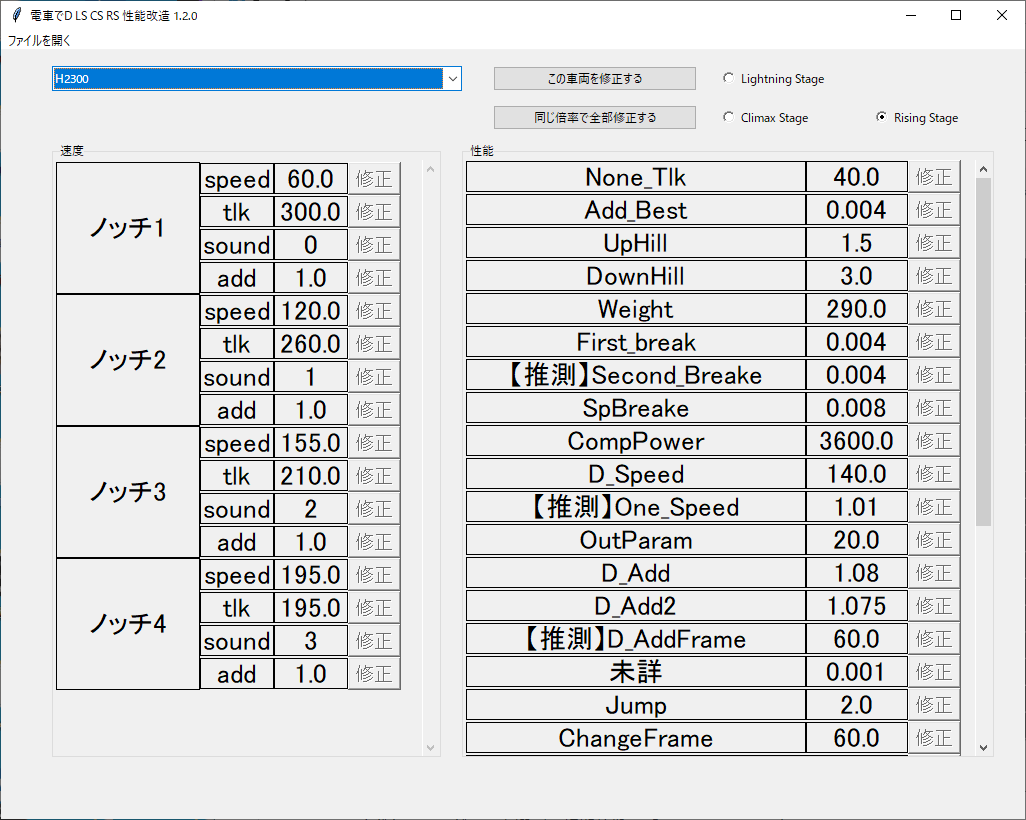
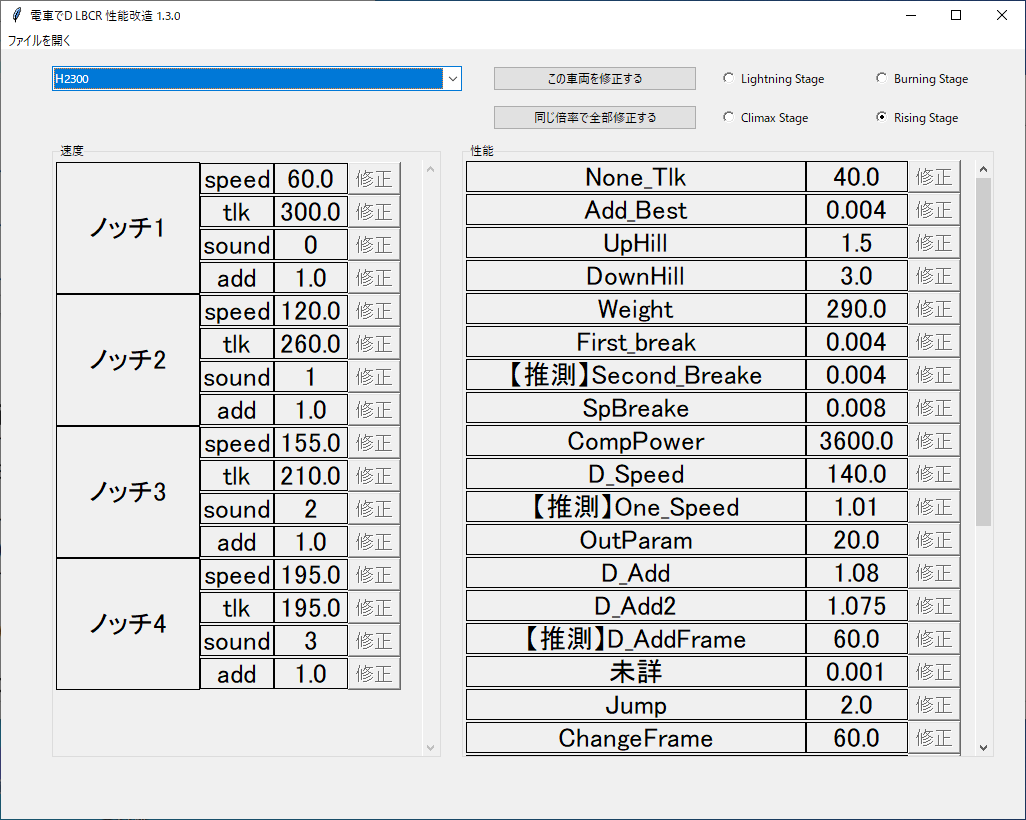
BS改造追加

diff --git a/dendDecrypt/BSdecrypt.py b/dendDecrypt/BSdecrypt.py
@@ -1,0 +1,235 @@
+# -*- coding: utf-8 -*-
+
+import struct
+
+BSTrainName = [
+    "H2000",
+    "K8000",
+    "H8200",
+    "UV21000",
+    "H8008",
+    "K2199",
+    "K21XX",
+    "H7001",
+    "K800",
+    "JR223",
+]
+
+perfName = [
+    "None_Tlk",
+    "add",
+    "UpHill",
+    "DownHill",
+    "Weight",
+    "First_break",
+    "【推測】Second_Breake",
+    "【推測】SpBreake",
+    "CompPower",
+    "D_Speed",
+    "【推測】One_Speed",
+    "OutParam",
+    "D_Add",
+    "D_Add2",
+    "【推測】D_AddFrame",
+    "未詳",
+    "Jump",
+    "ChangeFrame",
+    "OutRun_Top",
+    "OutRun_Other",
+    "OutRun_Frame",
+    "OutRun_Speed",
+    "OutRun_JumpFrame",
+    "OutRun_JumpHeight",
+]
+
+hurikoName = ""
+
+class BSdecrypt():
+    def __init__(self, filePath):
+        self.filePath = filePath
+        self.trainNameList = BSTrainName
+        self.trainPerfNameList = perfName
+        self.trainHurikoNameList = hurikoName
+        self.trainInfoList = []
+        self.indexList = []
+        self.byteArr = []
+        self.error = ""
+
+    def open(self):
+        try:
+            f = open(self.filePath, "rb")
+            line = f.read()
+            f.close()
+            self.decrypt(line)
+            self.byteArr = bytearray(line)
+            return True
+        except Exception as e:
+            self.error = str(e)
+            return False
+    def printError(self):
+        f = open("error_log.txt", "w")
+        f.write(self.error)
+        f.close()
+    def decrypt(self, line):
+        self.trainInfoList = []
+        self.indexList = []
+        index = 0
+        trainCnt = line[index]
+        index += 1
+
+        for i in range(trainCnt):
+            trainNameCnt = line[index]
+            index += 1
+            trainName = line[index:index+trainNameCnt].decode("shift-jis")
+            index += trainNameCnt
+
+            self.indexList.append(index)
+            train_speed = []
+            notchCnt = int(line[index])
+            index += 1
+            for j in range(2):
+                for k in range(notchCnt):
+                    speed = struct.unpack("<f", line[index:index+4])[0]
+                    speed = round(speed, 4)
+                    train_speed.append(speed)
+                    index += 4
+            self.trainInfoList.append(train_speed)
+
+            train_perf = []
+            for j in range(len(perfName)):
+                perf = struct.unpack("<f", line[index:index+4])[0]
+                perf = round(perf, 4)
+                train_perf.append(perf)
+                index += 4
+            self.trainInfoList.append(train_perf)
+            
+            daishaCnt = line[index]
+            index += 1
+
+            daishaModelNameCnt = line[index]
+            index += 1
+            daishaModelName = line[index:index+daishaModelNameCnt].decode("shift-jis")
+            index += daishaModelNameCnt
+
+            henseiCnt = line[index]
+            index += 1
+
+            modelCnt = line[index]
+            index += 1
+            for j in range(modelCnt):
+                modelNameCnt = line[index]
+                index += 1
+                modelName = line[index:index+modelNameCnt].decode("shift-jis")
+                index += modelNameCnt
+
+            for j in range(modelCnt):
+                colNameCnt = line[index]
+                index += 1
+                colName = line[index:index+colNameCnt].decode("shift-jis")
+                index += colNameCnt
+
+            pantaModelCnt = line[index]
+            index += 1
+            
+            if pantaModelCnt > 0:
+                for j in range(pantaModelCnt):
+                    pantaModelNameCnt = line[index]
+                    index += 1
+                    pantaModelName = line[index:index+pantaModelNameCnt].decode("shift-jis")
+                    index += pantaModelNameCnt
+                
+                for j in range(henseiCnt):
+                    idx = line[index]
+                    index += 1
+
+            for j in range(henseiCnt):
+                idx = line[index]
+                index += 1
+
+            for j in range(2):
+                seLen = line[index]
+                index += 1
+                seFileName = line[index:index+seLen].decode("shift-jis")
+                index += seLen
+
+            seLen = line[index]
+            index += 1
+            seFileName = line[index:index+seLen].decode("shift-jis")
+            index += seLen
+
+            sstLen = line[index]
+            index += 1
+            sstFileName = line[index:index+sstLen].decode("shift-jis")
+            index += sstLen
+
+            seLen = line[index]
+            index += 1
+            seFileName = line[index:index+seLen].decode("shift-jis")
+            index += seLen
+
+            for j in range(2):
+                seFileCnt = line[index]
+                index += 1
+                seLen = line[index]
+                index += 1
+                seFileName = line[index:index+seLen].decode("shift-jis")
+                index += seLen
+
+            cnt = line[index]
+            index += 1
+            for j in range(cnt):
+                for k in range(2):
+                    tgaLen = line[index]
+                    index += 1
+                    tgaFileName = line[index:index+tgaLen].decode("shift-jis")
+                    index += tgaLen
+                for k in range(2):
+                    index += 4
+                index += 4
+                
+            tailModelCnt = line[index]
+            index += 1
+            for j in range(tailModelCnt):
+                tailModelNameCnt = line[index]
+                index += 1
+                tailModelName = line[index:index+tailModelNameCnt].decode("shift-jis")
+                index += tailModelNameCnt
+
+            for j in range(tailModelCnt):
+                index += 1
+
+            for j in range(tailModelCnt):
+                for k in range(2):
+                    tgaLen = line[index]
+                    index += 1
+                    tgaFileName = line[index:index+tgaLen].decode("shift-jis")
+                    index += tgaLen
+                for k in range(2):
+                    index += 4
+                index += 4
+
+            for j in range(modelCnt):
+                index += 1
+
+            colorCnt = line[index]
+            index += 1
+            for color in range(colorCnt):
+                for model in range(modelCnt):
+                    cnt = line[index]
+                    index += 1
+                    for j in range(cnt):
+                        index += 1
+                        index += 1
+                        txtLen = line[index]
+                        index += 1
+                        txt = line[index:index+txtLen].decode("shift-jis")
+                        index += txtLen
+    def saveTrain(self):
+        try:
+            w = open(self.filePath, "wb")
+            w.write(self.byteArr)
+            w.close()
+            return True
+        except Exception as e:
+            self.error = str(e)
+            return False

diff --git a/editor.py b/editor.py
@@ -8,6 +8,7 @@ from tkinter import ttk
 from tkinter import messagebox as mb
 from tkinter import simpledialog as sd
 from dendDecrypt import LSdecrypt as dendLs
+from dendDecrypt import BSdecrypt as dendBs
 from dendDecrypt import CSdecrypt as dendCs
 from dendDecrypt import RSdecrypt as dendRs
 
@@ -269,6 +270,13 @@ def openFile():
             decryptFile = None
             notchContentCnt = 2
             decryptFile = dendLs.LSdecrypt(file_path)
+    elif v_radio.get() == BS:
+        file_path = fd.askopenfilename(filetypes=[("TRAIN_DATA", "TRAIN_DATA2ND.BIN")])
+        if file_path:
+            del decryptFile
+            decryptFile = None
+            notchContentCnt = 2
+            decryptFile = dendBs.BSdecrypt(file_path)
     elif v_radio.get() == CS:
         file_path = fd.askopenfilename(filetypes=[("TRAIN_DATA", "TRAIN_DATA3RD.BIN")])
         if file_path:
@@ -470,7 +478,7 @@ def selectGame():
     v_edit.set("この車両を修正する")
         
 root = Tk()
-root.title("電車でD LS CS RS 性能改造 1.2.0")
+root.title("電車でD LBCR 性能改造 1.3.0")
 root.geometry("1024x768")
 
 menubar = Menu(root)
@@ -494,13 +502,16 @@ edit_all_button.place(relx = 0.48, rely=0.07, relwidth=0.2, height=25)
 
 v_radio = IntVar()
 
-lsRb = Radiobutton(root, text="Lightning Stage", command = selectGame, variable=v_radio, value=0)
+lsRb = Radiobutton(root, text="Lightning Stage", command = selectGame, variable=v_radio, value=LS)
 lsRb.place(relx=0.7, rely=0.02)
 
-csRb = Radiobutton(root, text="Climax Stage", command = selectGame, variable=v_radio, value=2)
+bsRb = Radiobutton(root, text="Burning Stage", command = selectGame, variable=v_radio, value=BS)
+bsRb.place(relx=0.85, rely=0.02)
+
+csRb = Radiobutton(root, text="Climax Stage", command = selectGame, variable=v_radio, value=CS)
 csRb.place(relx=0.7, rely=0.07)
 
-rsRb = Radiobutton(root, text="Rising Stage", command = selectGame, variable=v_radio, value=3)
+rsRb = Radiobutton(root, text="Rising Stage", command = selectGame, variable=v_radio, value=RS)
 rsRb.select()
 rsRb.place(relx=0.85, rely=0.07)
 
